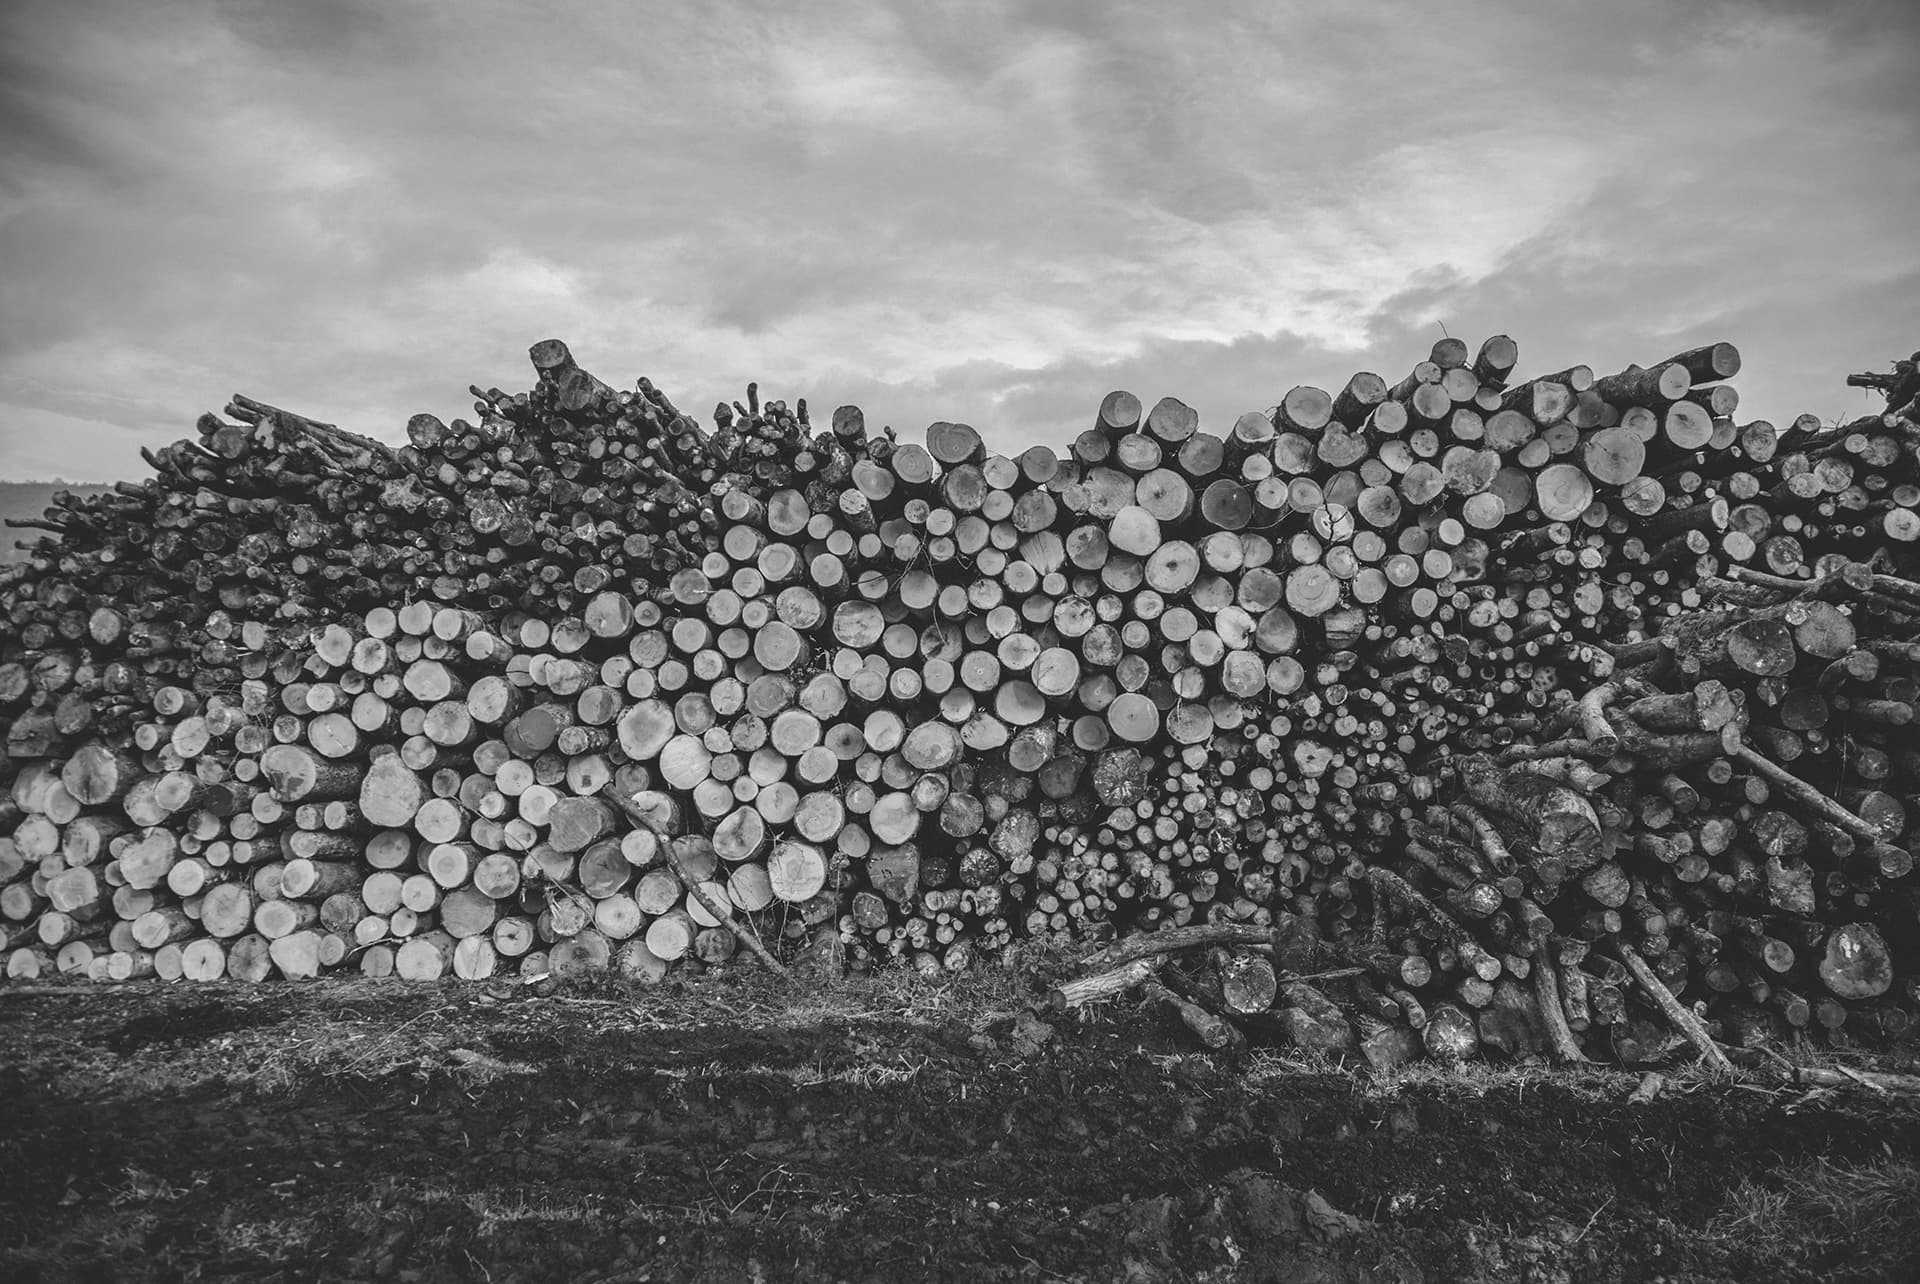
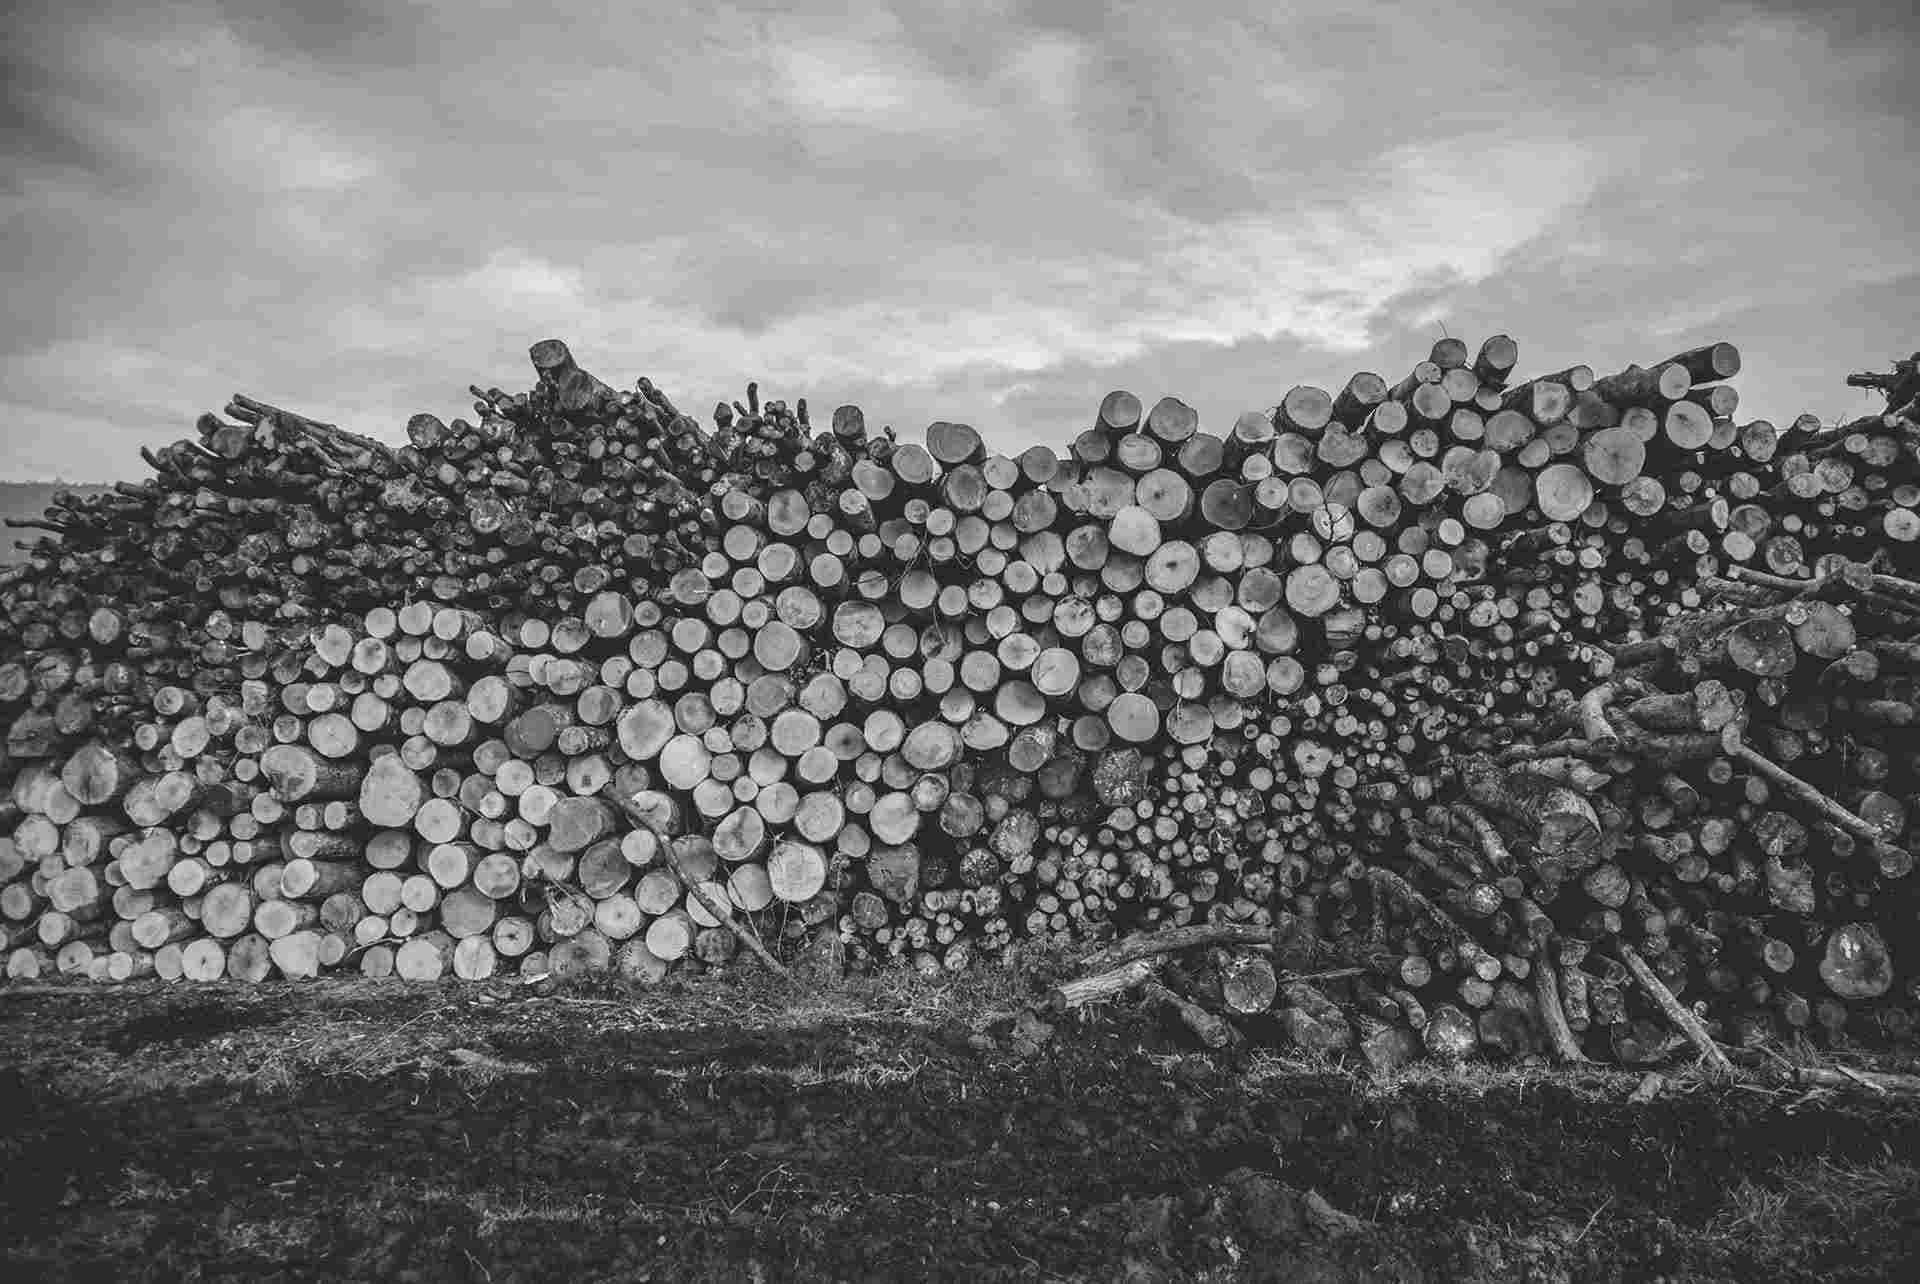
compress image

diff --git a/src/index.html b/src/index.html
@@ -10,7 +10,7 @@
     <link href="./static/slick/slick-theme.css" rel="stylesheet" type="text/css">
     <link href="https://fonts.googleapis.com/css?family=Montserrat:400,700&display=swap" rel="stylesheet"
           type="text/css">
-<!--    <link rel="stylesheet" href="./static/css/fontello.css">-->
+
 </head>
 
 <body>
@@ -148,7 +148,7 @@
             </div>
 
             <div class="content-image">
-                <img src="./static/image/furniture.png" alt="furniture">
+                <img src="./static/image/furniture.jpg" alt="furniture">
                 <span class="content-image__text">furniture</span>
             </div>
             <div class="number-section">01<span>.</span>
@@ -158,7 +158,7 @@
 
         <div class="content-box" id="decor">
             <div class="content-image">
-                <img src="./static/image/decor.png" alt="decor">
+                <img src="./static/image/decor.jpg" alt="decor">
                 <span class="content-image__text">decor</span>
             </div>
 
@@ -249,7 +249,7 @@
     <section class="about" id="about">
         <div class="content-box">
             <div class="content-image">
-                <img src="./static/image/about.png" alt="about">
+                <img src="./static/image/about.jpg" alt="about">
                 <span class="content-image__text">about</span>
             </div>
             <div class="content-text">
